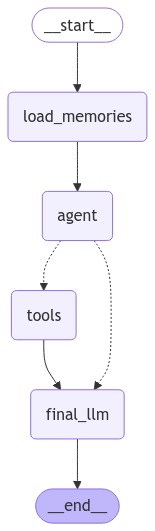
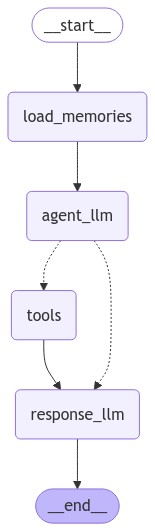
renamed graph parts

diff --git a/lang_memgpt_local/graph.py b/lang_memgpt_local/graph.py
@@ -157,16 +157,16 @@ def route_tools(state: schemas.State) -> Literal["tools", "final_llm"]:
 # Create the LangGraph StateGraph
 builder = StateGraph(schemas.State, schemas.GraphConfig)
 builder.add_node("load_memories", load_memories)
-builder.add_node("agent", agent)
+builder.add_node("agent_llm", agent)
 builder.add_node("tools", ToolNode(all_tools))
-builder.add_node("final_llm", final_llm)
+builder.add_node("response_llm", final_llm)
 
 # Add edges to the graph
 builder.add_edge(START, "load_memories")
-builder.add_edge("load_memories", "agent")
-builder.add_conditional_edges("agent", route_tools, ["tools", "final_llm"])
-builder.add_edge("tools", "final_llm")
-builder.add_edge("final_llm", END)
+builder.add_edge("load_memories", "agent_llm")
+builder.add_conditional_edges("agent_llm", route_tools, ["tools", "response_llm"])
+builder.add_edge("tools", "response_llm")
+builder.add_edge("response_llm", END)
 
 # Compile the graph into an executable LangGraph
 memory = MemorySaver()
